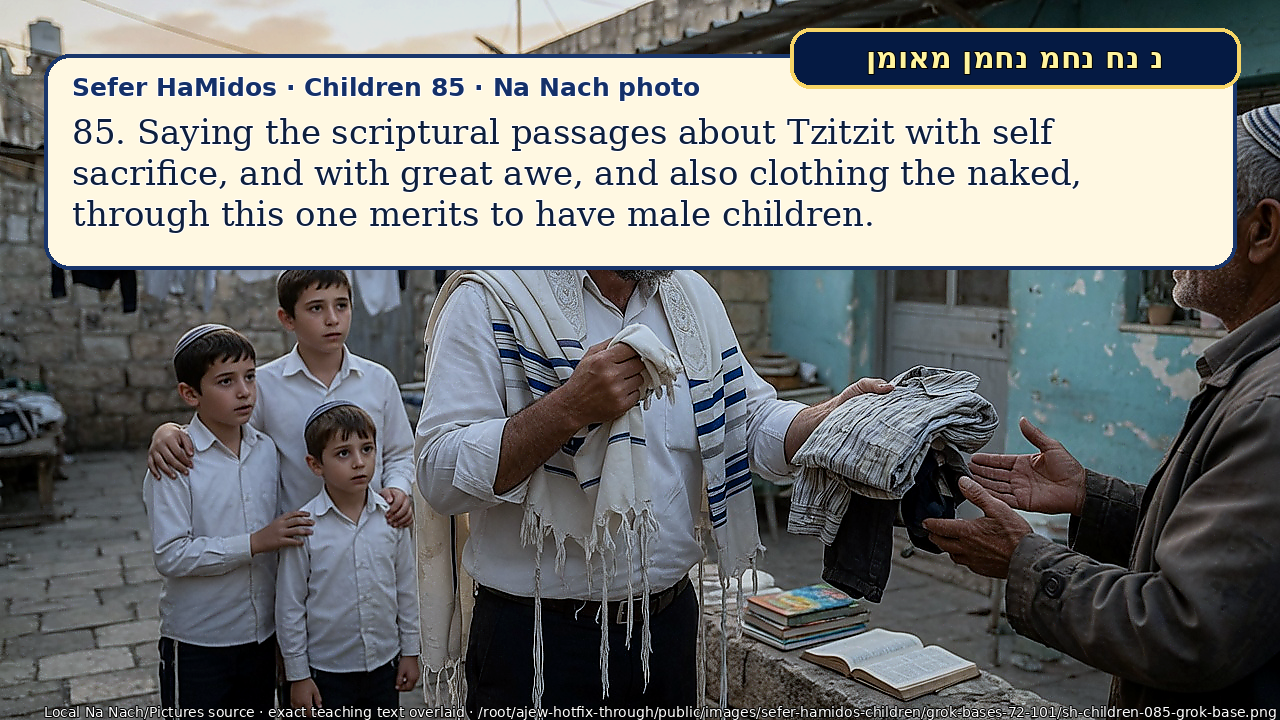
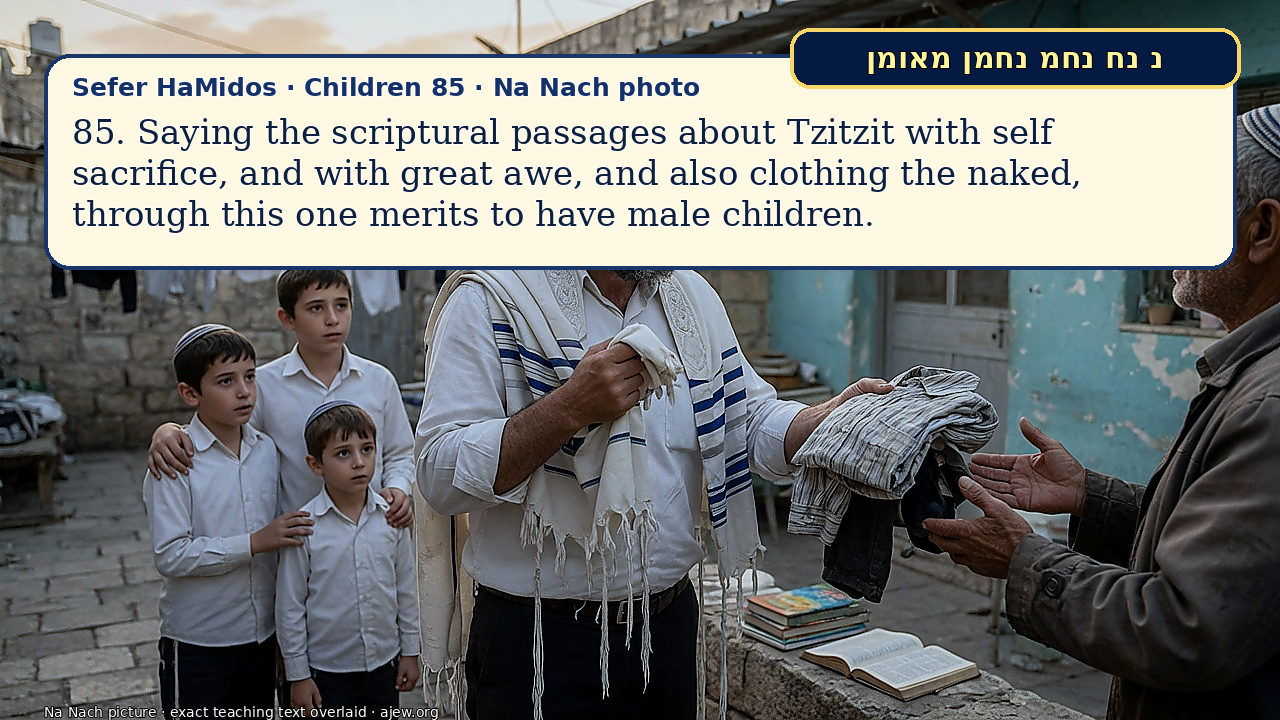
Remove local paths from Sefer HaMidos image credits

Changed region(s): [[0.0312, 0.9778, 1.0, 1.0]]

diff --git a/scripts/build-sefer-hamidos-next40-local-media.py b/scripts/build-sefer-hamidos-next40-local-media.py
@@ -228,8 +228,7 @@ def overlay_image(base, text, lang, topic_title, seg_idx, variant, source_path):
         y += lh
     draw_seal(d)
     credit=ImageFont.truetype(FONT,14)
-    safe_src=str(source_path).replace('/mnt/c/Users/Pettek/Pictures/','Pictures/')[:120]
-    d.text((44,704), f'Local Na Nach/Pictures source · exact teaching text overlaid · {safe_src}', font=credit, fill=(255,255,255,210), stroke_width=1, stroke_fill=(0,0,0,170))
+    d.text((44,704), 'Na Nach picture · exact teaching text overlaid · ajew.org', font=credit, fill=(255,255,255,210), stroke_width=1, stroke_fill=(0,0,0,170))
     return im.convert('RGB')
 
 
